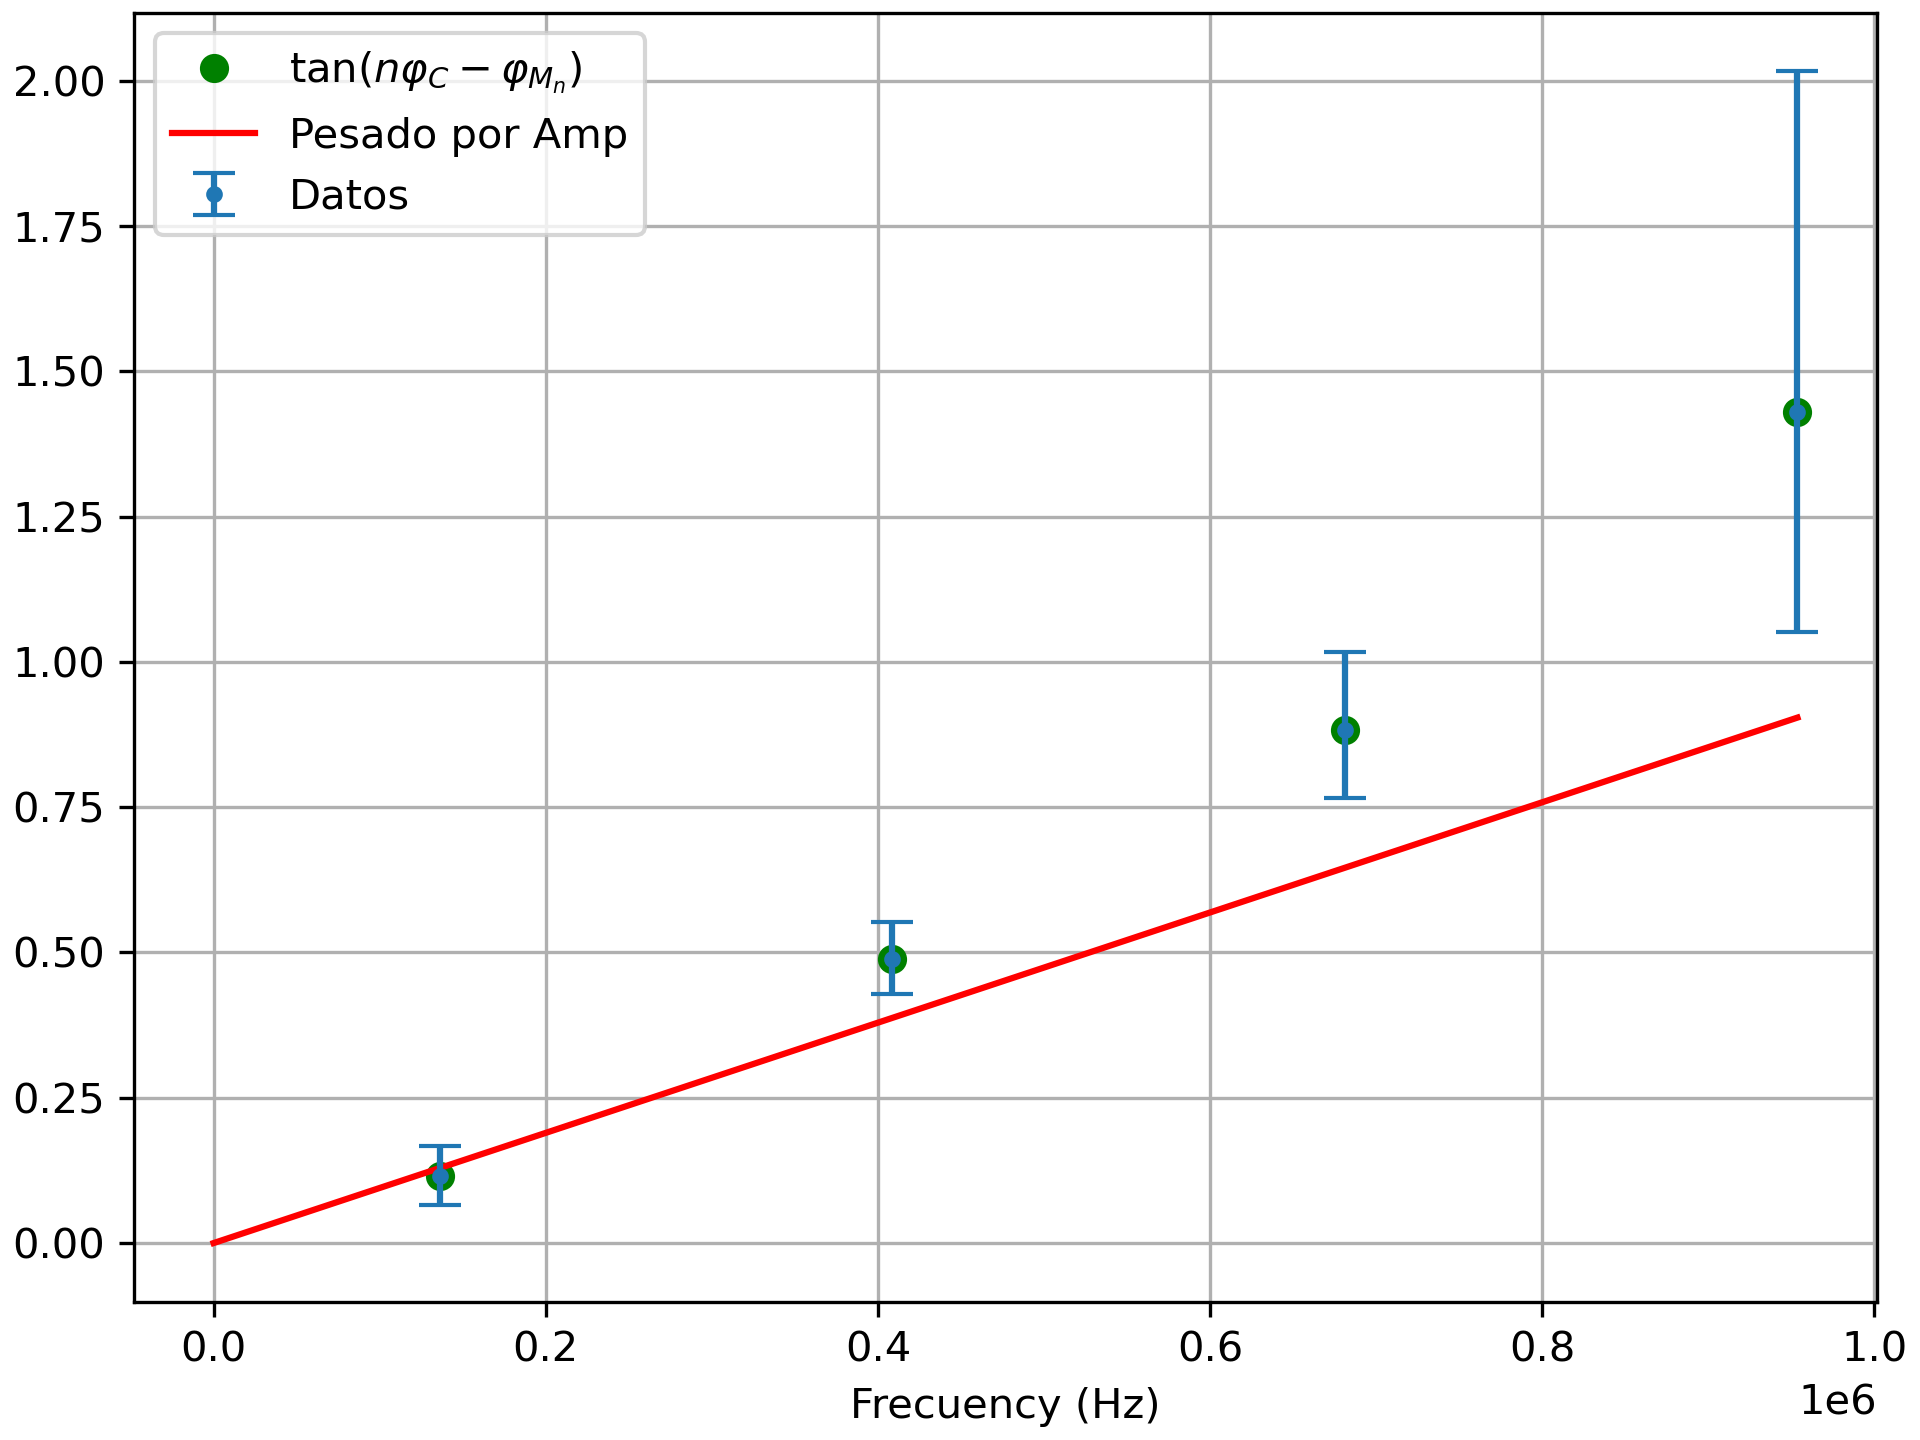
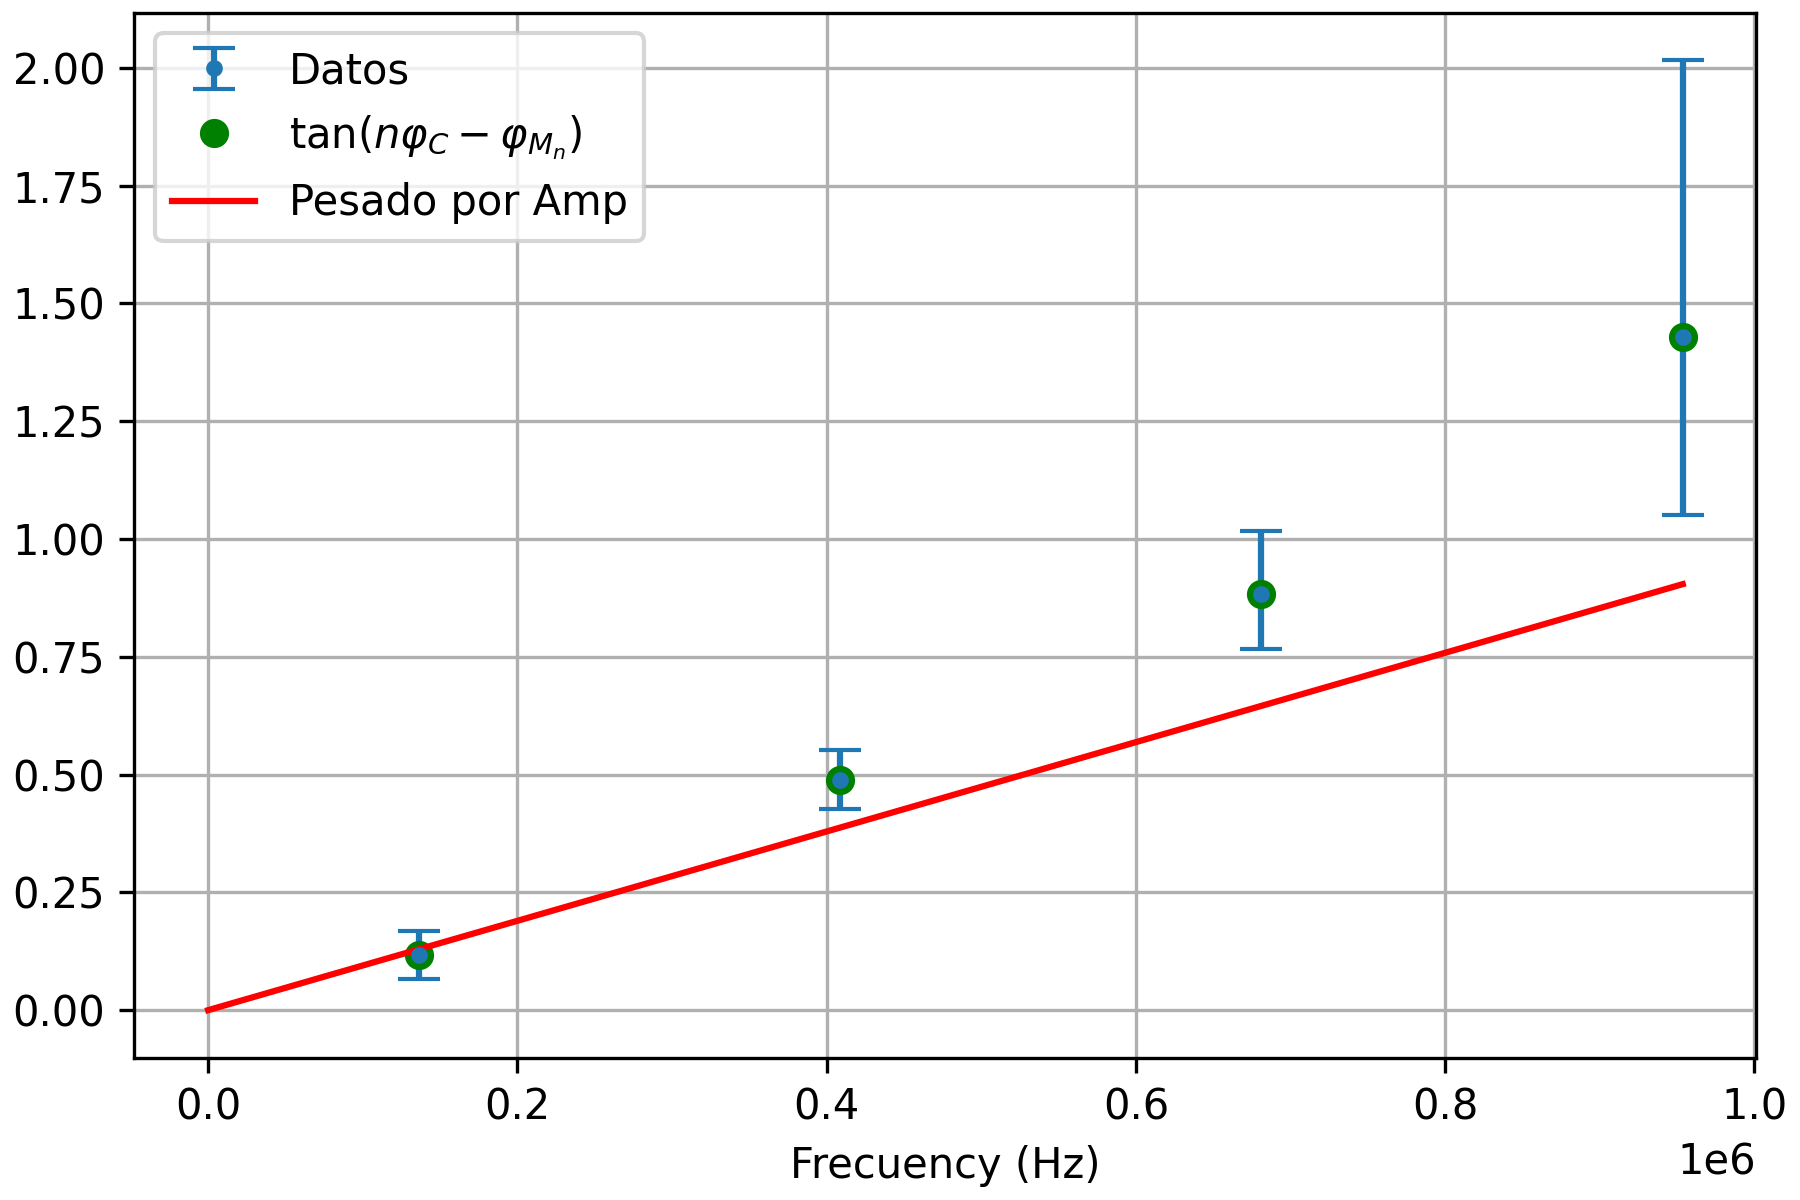
updts de casa

Changed region(s): [[0.0, 0.0, 0.9956, 0.9867], [0.7778, 0.6167, 0.8089, 0.6783]]

diff --git a/Langevin_retraso_numerico_2_datos_experimentales.py b/Langevin_retraso_numerico_2_datos_experimentales.py
@@ -15,11 +15,7 @@ La ecuación a satisfacer es:
 d M(H,t) / dt = (1/tau) ( Meq(H) - M(H,t) )
 
 M. Shliomis, Sov. Phys. Uspekhi (Engl. transl.) 17 (2) (1974) 153.
-
-
 """
-
-
 import numpy as np
 import matplotlib.pyplot as plt
 from   scipy.integrate import odeint
@@ -306,19 +302,28 @@ plt.errorbar(freq[indices], y_aux1, yerr=[yerr_lower, yerr_upper], fmt='o', caps
 plt.plot(0,0)
 plt.xlabel('freq (Hz)')
 plt.legend()
+plt.grid()
+plt.savefig('ajuste_fase_frec.png',dpi=300,facecolor='w')
 plt.show()
 
 
+#%% 14 de Mayo 
+fig, ax = plt.subplots(constrained_layout=True)
 
-#%%
-fig,ax=plt.subplots(constrained_layout=True)
-ax.plot(freq[indices], np.tan(fase_modelo) , 'og',label=r"$\tan(n \varphi_C - \varphi_{M_n})$")
-ax.plot(np.insert(freq[indices],0,0), (np.insert(freq[indices],0,0))*pend ,'r-',label='Pesado por Amp')
-ax.errorbar(freq[indices], y_aux1, yerr=[yerr_lower, yerr_upper], fmt='.', capsize=5, label='Datos')
+# Guardar los objetos de las gráficas para usarlos en la leyenda
+datos = ax.errorbar(freq[indices], y_aux1, yerr=[yerr_lower, yerr_upper], fmt='.', capsize=5, label='Experimental Data')
+tan_line = ax.plot(freq[indices], np.tan(fase_modelo), 'og', label=r"$\tan\left(n \varphi_C - \varphi_{M_n}\right)$")
+ajuste = ax.plot(np.insert(freq[indices],0,0), (np.insert(freq[indices],0,0))*pend, 'r-', label='Amplitude-weighted fit')
+
 ax.grid()
-ax.legend()
+
+# Especificar el orden de las etiquetas manualmente
+handles = [datos, ajuste[0],tan_line[0]]  # [0] porque plot devuelve una lista
+labels = [h.get_label() for h in handles]
+ax.legend(handles, labels,ncol=2)
+
 ax.set_xlabel('Frecuency (Hz)')
-plt.savefig('grafico_G.png',dpi=300)
+plt.savefig('ajuste_fase_frec.png', dpi=300,facecolor='w')
 #%%
 """
 Fase del modelo
